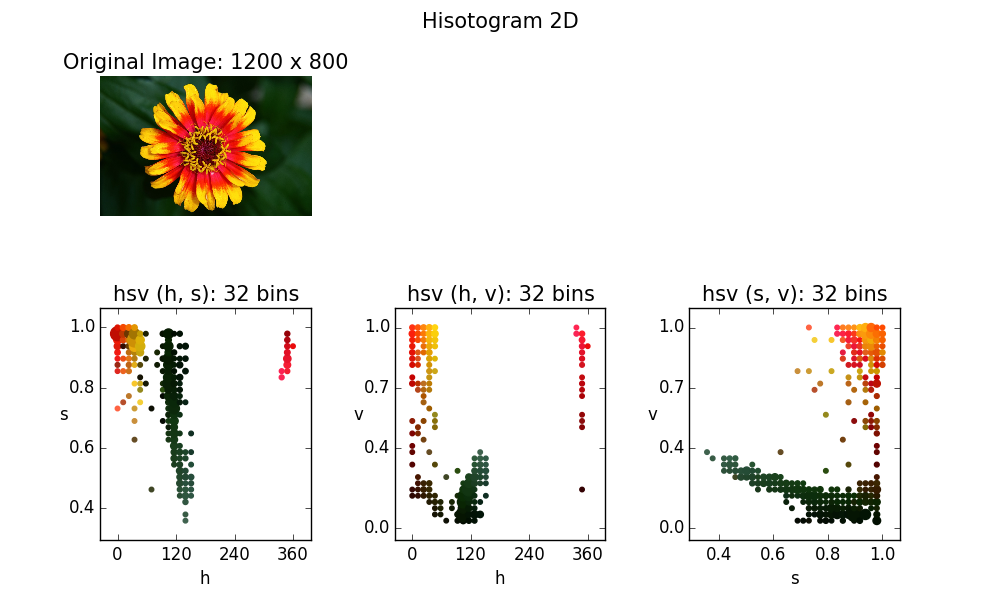
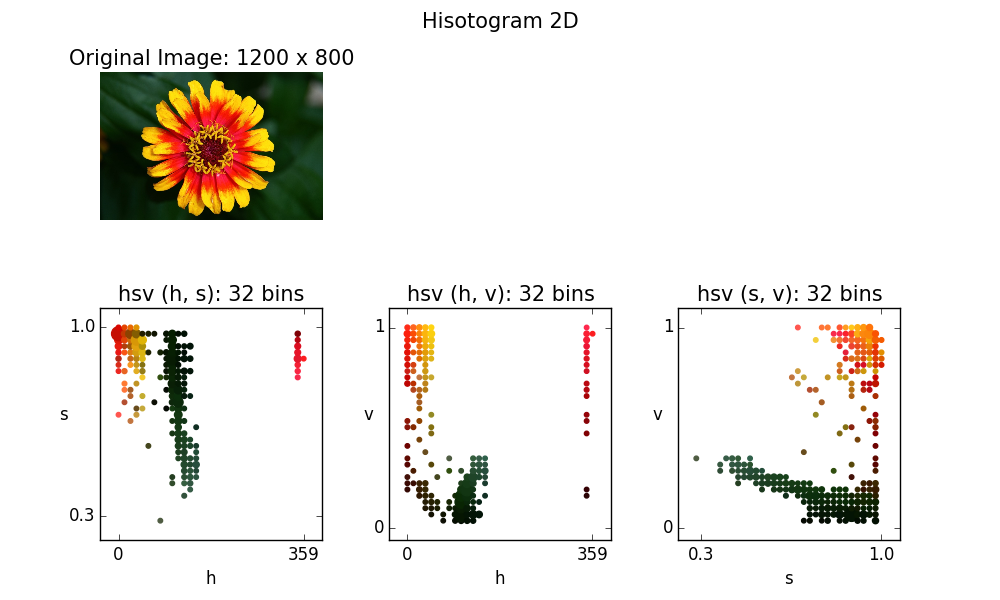
Update results.

diff --git a/color_histogram/core/hist_1d.py b/color_histogram/core/hist_1d.py
@@ -1,9 +1,10 @@
+
 # -*- coding: utf-8 -*-
-## @package color_histogram.core.hist_2d
+## @package color_histogram.core.hist_1d
 #
-#  Implementation of 2D color histograms.
+#  Implementation of 1D color histograms.
 #  @author      tody
-#  @date        2015/08/28
+#  @date        2015/08/29
 
 import numpy as np
 
@@ -11,30 +12,33 @@ from color_histogram.core.color_pixels import ColorPixels
 
 
 ## Implementation of 2D color histograms.
-class Hist2D:
+class Hist1D:
     ## Constructor
     #  @param image          input image.
     #  @param num_bins       target number of histogram bins.
     #  @param alpha          low density clip.
     #  @param color_space    target color space.
     #  @param channels       target color channels.
-    def __init__(self, image, num_bins=16, alpha=0.1, color_space='rgb', channels=[0, 1]):
-        self._computeTargetPixels(image, color_space, channels)
+    def __init__(self, image, num_bins=16, alpha=0.1, color_space='Lab', channel=0):
+        self._computeTargetPixels(image, color_space, channel)
         self._num_bins = num_bins
         self._alpha = alpha
         self._color_space = color_space
-        self._channels = channels
+        self._channel = channel
 
         self._computeColorRange()
         self._computeHistogram()
 
-        self._plotter = Hist2DPlot(self)
+        self._plotter = Hist1DPlot(self)
+
+    def numBins(self):
+        return self._num_bins
 
     def colorSpace(self):
         return self._color_space
 
-    def channels(self):
-        return self._channels
+    def channel(self):
+        return self._channel
 
     def colorIDs(self):
         color_ids = np.where(self._histPositive())
@@ -69,37 +73,34 @@ class Hist2D:
     def plot(self, ax, density_size_range=[10, 100]):
         self._plotter.plot(ax, density_size_range)
 
-    def _computeTargetPixels(self, image, color_space, channels):
+    def _computeTargetPixels(self, image, color_space, channel):
         color_pixels = ColorPixels(image)
-        self._pixels = color_pixels.pixels(color_space)[:, channels]
+        self._pixels = color_pixels.pixels(color_space)[:, channel]
         self._rgb_pixels = color_pixels.rgb()
 
     def _computeColorRange(self):
         pixels = self._pixels
-        cs = pixels.shape[1]
-
-        c_min = np.zeros(cs)
-        c_max = np.zeros(cs)
-        for ci in xrange(cs):
-            c_min[ci] = np.min(pixels[:, ci])
-            c_max[ci] = np.max(pixels[:, ci])
+        c_min = np.min(pixels)
+        c_max = np.max(pixels)
 
         self._color_range = [c_min, c_max]
 
     def _computeHistogram(self):
         pixels = self._pixels
+
         num_bins = self._num_bins
         c_min, c_max = self._color_range
 
-        hist_bins = np.zeros((num_bins, num_bins), dtype=np.float32)
-        color_bins = np.zeros((num_bins, num_bins, 3), dtype=np.float32)
+        hist_bins = np.zeros((num_bins), dtype=np.float32)
+        color_bins = np.zeros((num_bins, 3), dtype=np.float32)
 
         color_ids = (num_bins - 1) * (pixels - c_min) / (c_max - c_min)
+
         color_ids = np.int32(color_ids)
 
         for pi, color_id in enumerate(color_ids):
-            hist_bins[color_id[0], color_id[1]] += 1
-            color_bins[color_id[0], color_id[1]] += self._rgb_pixels[pi]
+            hist_bins[color_id] += 1
+            color_bins[color_id] += self._rgb_pixels[pi]
 
         self._hist_bins = hist_bins
 
@@ -124,17 +125,21 @@ class Hist2D:
         return self._hist_bins > 0.0
 
 
-class Hist2DPlot:
+class Hist1DPlot:
 
-    def __init__(self, hist2D, density_size_range=[10, 100]):
-        self._hist2D = hist2D
+    def __init__(self, hist1D, density_size_range=[10, 100]):
+        self._hist1D = hist1D
 
     def plot(self, ax, density_size_range=[10, 100]):
-        color_samples = self._hist2D.colorCoordinates()
-        density_sizes = self._densitySizes(density_size_range)
-        colors = self._hist2D.rgbColors()
+        color_samples = self._hist1D.colorCoordinates()
+        color_densities = self._hist1D.colorDensities()
 
-        ax.scatter(color_samples[:, 0], color_samples[:, 1], color=colors, s=density_sizes)
+        colors = self._hist1D.rgbColors()
+
+        color_range = self._hist1D.colorRange()
+        width = (color_range[1] - color_range[0]) / float(self._hist1D.numBins())
+
+        ax.bar(color_samples, color_densities, width=width, color=colors)
         self._axisSetting(ax)
 
     def _range2ticks(self, tick_range):
@@ -148,8 +153,7 @@ class Hist2DPlot:
     def _range2lims(self, tick_range):
         unit = 0.1 * (tick_range[:, 1] - tick_range[:, 0])
         lim = np.array(tick_range)
-        lim[:, 0] += -unit
-        lim[:, 1] += unit
+        lim[1, 1] += unit[1]
 
         return lim[0], lim[1]
 
@@ -162,14 +166,14 @@ class Hist2DPlot:
         return density_sizes
 
     def _axisSetting(self, ax):
-        color_space = self._hist2D.colorSpace()
-        channels = self._hist2D.channels()
+        color_space = self._hist1D.colorSpace()
+        channel = self._hist1D.channel()
 
-        ax.set_xlabel(color_space[channels[0]])
-        ax.set_ylabel(color_space[channels[1]], rotation='horizontal')
+        ax.set_xlabel(color_space[channel])
+        ax.set_ylabel("Density")
 
-        color_range = self._hist2D.colorRange()
-        tick_range = np.array(color_range).T
+        color_range = self._hist1D.colorRange()
+        tick_range = np.array([color_range, [0.0, 1.0]])
         xticks, yticks = self._range2ticks(tick_range)
 
         ax.set_xticks(xticks)

diff --git a/color_histogram/results/hist_1d.py b/color_histogram/results/hist_1d.py
@@ -1,8 +1,7 @@
-
 # -*- coding: utf-8 -*-
-## @package color_histogram.results.hist_2d
+## @package color_histogram.results.hist_1d
 #
-#  Compute 2D color histogram result.
+#  Compute 1D color histogram result.
 #  @author      tody
 #  @date        2015/08/28
 
@@ -16,27 +15,26 @@ from color_histogram.cv.image import rgb, to32F
 from color_histogram.datasets.google_image import dataFile
 from color_histogram.results.results import resultFile, batchResults
 from color_histogram.plot.window import showMaximize
-from color_histogram.core.hist_2d import Hist2D
 from color_histogram.util.timer import timing_func
+from color_histogram.core.hist_1d import Hist1D
 
 
-## Plot 2D color histograms for the target image, color space, channels.
+## Plot 1D color histograms for the target image, color space, channels.
 @timing_func
-def plotHistogram2D(C_32F, color_space, channels, ax):
+def plotHistogram1D(C_32F, color_space, channel, ax):
     font_size = 15
     num_bins = 32
 
-    plt.title("%s (%s, %s): %s bins" % (color_space,
-                                        color_space[channels[0]],
-                                        color_space[channels[1]],
+    plt.title("%s (%s): %s bins" % (color_space,
+                                        color_space[channel],
                                         num_bins), fontsize=font_size)
 
-    hist2D = Hist2D(C_32F, num_bins=num_bins, color_space=color_space, channels=channels)
-    hist2D.plot(ax)
+    hist1D = Hist1D(C_32F, num_bins=num_bins, color_space=color_space, channel=channel)
+    hist1D.plot(ax)
 
 
-## Compute histogram 2D result for the image file.
-def histogram2DResult(image_file):
+## Compute histogram 1D result for the image file.
+def histogram1DResult(image_file):
     image_name = os.path.basename(image_file)
     image_name = os.path.splitext(image_name)[0]
 
@@ -46,7 +44,7 @@ def histogram2DResult(image_file):
     fig.subplots_adjust(left=0.1, bottom=0.1, right=0.9, top=0.95, wspace=0.3, hspace=0.2)
 
     font_size = 15
-    fig.suptitle("Hisotogram 2D", fontsize=font_size)
+    fig.suptitle("Hisotogram 1D", fontsize=font_size)
 
     C_8U = loadRGB(image_file)
 
@@ -59,26 +57,27 @@ def histogram2DResult(image_file):
     rgb_8U = rgb(C_8U)
     C_32F = to32F(rgb_8U)
 
-    color_space = "hsv"
-    channels_list = [[0, 1], [0, 2], [1,2]]
+    color_targets = [["Lab", 0], ["hsv", 0], ["hsv", 2]]
 
     plot_id = 234
-    for channels in channels_list:
+    for color_target in color_targets:
         ax = fig.add_subplot(plot_id)
-        plotHistogram2D(C_32F, color_space, channels, ax)
+        color_space, channel = color_target
+        plotHistogram1D(C_32F, color_space, channel, ax)
         plot_id += 1
 
-    result_name = image_name + "_hist2D"
+    result_name = image_name + "_hist1D"
     result_file = resultFile(result_name)
     plt.savefig(result_file, transparent=True)
 
 
-## Compute histogram 2D results for the given data names, ids.
-def histogram2DResults(data_names, data_ids):
-    batchResults(data_names, data_ids, histogram2DResult, "Histogram 2D")
+## Compute histogram 1D results for the given data names, ids.
+def histogram1DResults(data_names, data_ids):
+    batchResults(data_names, data_ids, histogram1DResult, "Histogram 1D")
+
 
 if __name__ == '__main__':
     data_names = ["flower"]
     data_ids = [0, 1, 2]
 
-    histogram2DResults(data_names, data_ids)
+    histogram1DResults(data_names, data_ids)

diff --git a/color_histogram/results/hist_3d.py b/color_histogram/results/hist_3d.py
@@ -1,7 +1,7 @@
 # -*- coding: utf-8 -*-
 ## @package color_histogram.results.hist_3d
 #
-#  color_histogram.results.hist_3d utility package.
+#  cCompute 3D color histogram result.
 #  @author      tody
 #  @date        2015/08/28
 
@@ -14,7 +14,7 @@ from color_histogram.io_util.image import loadRGB
 from color_histogram.cv.image import rgb, to32F, rgb2Lab, rgb2hsv
 from color_histogram.core.hist_3d import Hist3D
 from color_histogram.datasets.google_image import dataFile
-from color_histogram.results.results import resultFile
+from color_histogram.results.results import resultFile, batchResults
 from color_histogram.plot.window import showMaximize
 from color_histogram.util.timer import timing_func
 
@@ -71,12 +71,7 @@ def histogram3DResult(image_file):
 
 ## Compute histogram 3D results for the data names, ids.
 def histogram3DResults(data_names, data_ids):
-    for data_name in data_names:
-        print "Histogram 3D: %s" % data_name
-        for data_id in data_ids:
-            print "Data ID: %s" % data_id
-            image_file = dataFile(data_name, data_id)
-            histogram3DResult(image_file)
+    batchResults(data_names, data_ids, histogram3DResult, "Histogram 3D")
 
 if __name__ == '__main__':
     data_names = ["flower"]

diff --git a/color_histogram/results/results.py b/color_histogram/results/results.py
@@ -6,6 +6,7 @@
 #  @date        2015/08/20
 
 import os
+from color_histogram.datasets.google_image import dataFile
 
 _root_dir = os.path.dirname(__file__)
 
@@ -15,9 +16,19 @@ def resultDir():
     return _root_dir
 
 
+## Result file.
 def resultFile(image_name, image_ext=".png"):
     result_file = os.path.join(resultDir(), image_name + image_ext)
     return result_file
+
+
+def batchResults(data_names, data_ids, batch_func, batch_name):
+    for data_name in data_names:
+        print "%s: %s" % (batch_name, data_name)
+        for data_id in data_ids:
+            print "Data ID: %s" % data_id
+            image_file = dataFile(data_name, data_id)
+            batch_func(image_file)
 
 if __name__ == '__main__':
     print resultDir()

diff --git a/color_histogram/main.py b/color_histogram/main.py
@@ -8,7 +8,9 @@
 
 from color_histogram.datasets.google_image import createDatasets
 
+from color_histogram.results.hist_1d import histogram1DResults
 from color_histogram.results.hist_2d import histogram2DResults
+from color_histogram.results.hist_3d import histogram3DResults
 
 if __name__ == '__main__':
     data_names = ["flower"]
@@ -16,4 +18,6 @@ if __name__ == '__main__':
     data_ids = range(num_images)
 
     createDatasets(data_names, num_images, update=False)
+    histogram1DResults(data_names, data_ids)
     histogram2DResults(data_names, data_ids)
+    histogram3DResults(data_names, data_ids)

diff --git a/README.md b/README.md
@@ -4,7 +4,20 @@ Color Histogram Demo (Python)
 
 Simple python demos of Color Histogram.
 
+This package includes:
+
+* Histogram 1D
+* Histogram 2D
+* Histogram 3D
+
 ## Result
+
+### Histogram 1D:
+
+Histogram 1D plotting in 1 channel from RGB, Lab, HSV color spaces.
+In the following demo, I show the L (Lab), h (HSV), v (HSV) plots.
+
+![Histogram 1D](color_histogram/results/flower_2_hist1D.png)
 
 ### Histogram 2D:
 
